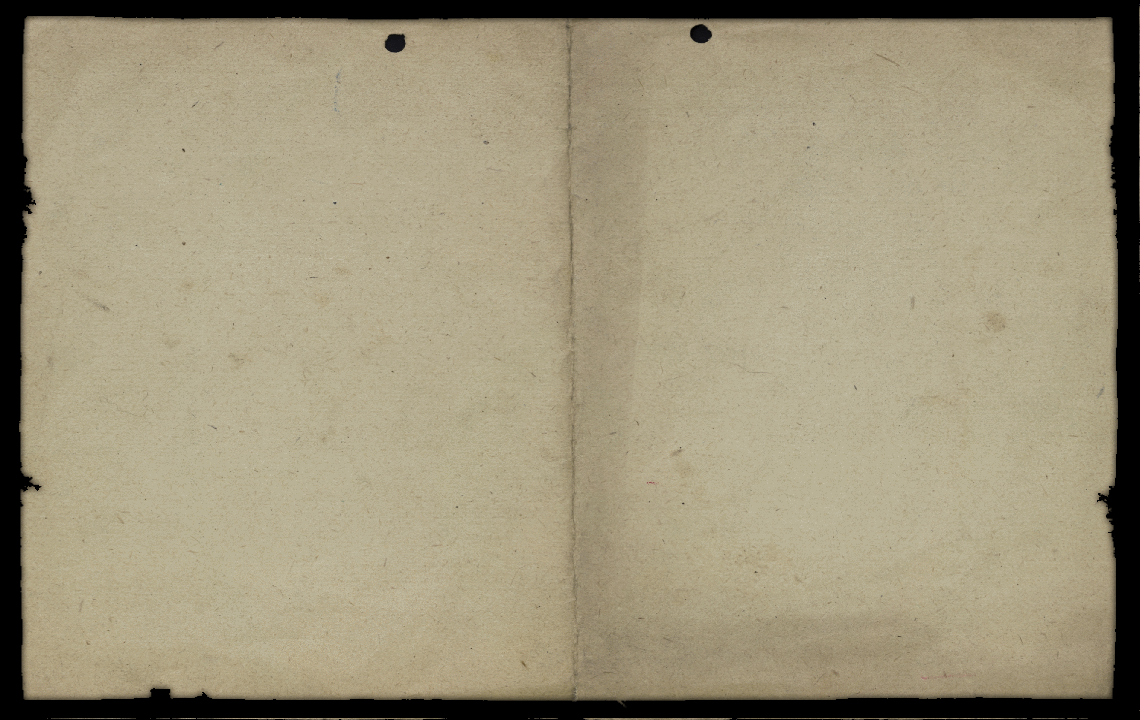
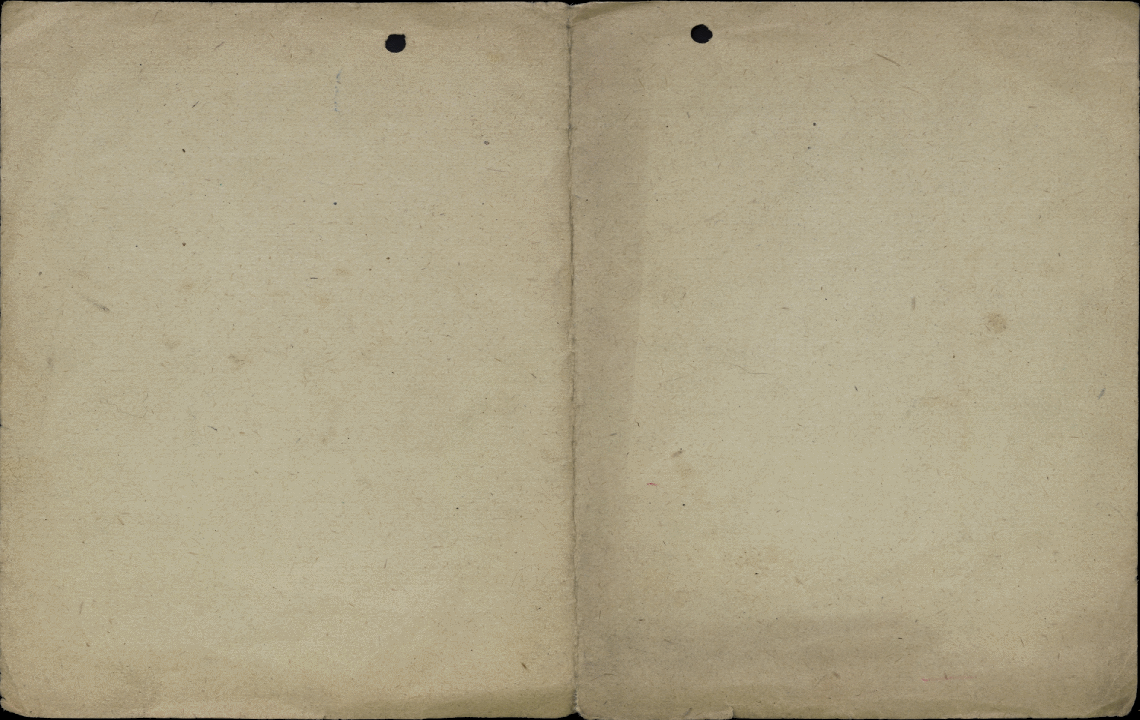
Main menu updated
Some gfx assets removed (were not used)

Changed region(s): [[0.0, 0.0, 1.0, 1.0]]

diff --git a/Riska/src/feup/lpoo/riska/scenes/MainMenuScene.java b/Riska/src/feup/lpoo/riska/scenes/MainMenuScene.java
@@ -5,6 +5,8 @@ import org.andengine.entity.scene.menu.MenuScene;
 import org.andengine.entity.scene.menu.item.IMenuItem;
 import org.andengine.entity.scene.menu.MenuScene.IOnMenuItemClickListener;
 import org.andengine.entity.sprite.Sprite;
+import org.andengine.opengl.texture.region.TiledTextureRegion;
+
 import feup.lpoo.riska.gameInterface.AnimatedButtonSpriteMenuItem;
 import feup.lpoo.riska.gameInterface.AnimatedTextButtonSpriteMenuItem;
 import feup.lpoo.riska.scenes.SceneManager.SceneType;
@@ -16,24 +18,29 @@ public class MainMenuScene extends BaseScene implements IOnMenuItemClickListener
 	// ==================================================
 	private MenuScene mainMenuChildScene;
 	private MenuScene startGameMenuChildScene;
-	private final int MENU_START = 0;
-	private final int MENU_OPTIONS = 1;
-	private final int MENU_NEW = 2;
-	private final int MENU_LOAD = 3;
 
+	final int MENU_START = 0;
+	final int MENU_NEW = 1;
+	final int MENU_LOAD = 2;
+	final int MENU_RETURN = 3;
+	final int MENU_OPTIONS = 4;
 	
 	@Override
 	public void createScene() {
 		createBackground();
 		createMenuChildScene();
 		createStartGameMenuChildScene();
+		createBorder();
 	}
 
 	@Override
 	public void onBackKeyPressed() {
-		if(this.getChildScene().equals(mainMenuChildScene)) {
+		if(this.getChildScene().equals(mainMenuChildScene))
+		{
 			System.exit(0);
-		} else if(this.getChildScene().equals(startGameMenuChildScene)) {
+		}
+		else if(this.getChildScene().equals(startGameMenuChildScene))
+		{
 			detachChildren();
 			setChildScene(mainMenuChildScene);
 		}
@@ -57,7 +64,7 @@ public class MainMenuScene extends BaseScene implements IOnMenuItemClickListener
 		SpriteBackground background = new SpriteBackground(new Sprite(camera.getWidth()/2, 
 				camera.getHeight()/2, 
 				resources.menuBackgroundRegion, 
-				activity.getVertexBufferObjectManager()));
+				vbom));
 		
 		setBackground(background);
 	}
@@ -66,17 +73,13 @@ public class MainMenuScene extends BaseScene implements IOnMenuItemClickListener
 		
 		mainMenuChildScene = new MenuScene(camera);
 		
-		final AnimatedTextButtonSpriteMenuItem startBtn = 
-				new AnimatedTextButtonSpriteMenuItem(
-						MENU_START, 
+		final AnimatedTextButtonSpriteMenuItem startBtn = new AnimatedTextButtonSpriteMenuItem(MENU_START, 
 						resources.textBtnRegion.getWidth(), 
 						resources.textBtnRegion.getHeight(),
 						resources.textBtnRegion, 
 						vbom, "START", resources.mainMenuFont);
 		
-		final AnimatedButtonSpriteMenuItem optionsBtn = 
-				new AnimatedButtonSpriteMenuItem(
-						MENU_OPTIONS, 
+		final AnimatedButtonSpriteMenuItem optionsBtn = new AnimatedButtonSpriteMenuItem(MENU_OPTIONS, 
 						(float)(0.3*resources.optionsBtnRegion.getWidth()),
 						(float)(0.3*resources.optionsBtnRegion.getHeight()), 
 						resources.optionsBtnRegion, 
@@ -89,60 +92,80 @@ public class MainMenuScene extends BaseScene implements IOnMenuItemClickListener
 		mainMenuChildScene.addMenuItem(optionsBtn);
 		mainMenuChildScene.setBackgroundEnabled(false);
 		mainMenuChildScene.setOnMenuItemClickListener(this);
-		
-		setChildScene(mainMenuChildScene);
-		
+
+		setChildScene(mainMenuChildScene);	
 	}
 	
 	private void createStartGameMenuChildScene() {
 		
 		startGameMenuChildScene = new MenuScene(camera);
 		
-		final AnimatedTextButtonSpriteMenuItem newGameBtn =
-				new AnimatedTextButtonSpriteMenuItem(
-						MENU_NEW,
+		final AnimatedTextButtonSpriteMenuItem newGameBtn = new AnimatedTextButtonSpriteMenuItem(MENU_NEW,
 						resources.textBtnRegion.getWidth(),
 						resources.textBtnRegion.getHeight(),
 						resources.textBtnRegion,
 						vbom, "NEW", resources.mainMenuFont);
 		
-		final AnimatedTextButtonSpriteMenuItem loadGameBtn =
-				new AnimatedTextButtonSpriteMenuItem(
-						MENU_LOAD,
+		final AnimatedTextButtonSpriteMenuItem loadGameBtn = new AnimatedTextButtonSpriteMenuItem(MENU_LOAD,
 						resources.textBtnRegion.getWidth(),
 						resources.textBtnRegion.getHeight(),
 						resources.textBtnRegion,
 						vbom, "LOAD", resources.mainMenuFont);
+
+		final AnimatedButtonSpriteMenuItem returnBtn = new AnimatedButtonSpriteMenuItem(MENU_RETURN,
+				resources.returnBtnRegion.getWidth(), 
+				resources.returnBtnRegion.getHeight(),
+				resources.returnBtnRegion,
+				vbom);
 		
 		newGameBtn.setPosition(camera.getCenterX(), camera.getCenterY() + newGameBtn.getHeight()/2);
 		loadGameBtn.setPosition(camera.getCenterX(), camera.getCenterY() - loadGameBtn.getHeight()/2);
 		
+		startGameMenuChildScene.addMenuItem(returnBtn);
 		startGameMenuChildScene.addMenuItem(newGameBtn);
 		startGameMenuChildScene.addMenuItem(loadGameBtn);
 		startGameMenuChildScene.setBackgroundEnabled(false);
 		startGameMenuChildScene.setOnMenuItemClickListener(this);
 		
 	}
+	
+	private void createBorder()
+	{
+		Sprite border = new Sprite(camera.getWidth()/2, camera.getHeight()/2, resources.menuBorderRegion, vbom);
+		border.setSize(camera.getWidth(), camera.getHeight());
+
+		mainMenuChildScene.attachChild(border);
+		
+		Sprite border2 = new Sprite(camera.getWidth()/2, camera.getHeight()/2, resources.menuBorderRegion, vbom);
+		border2.setSize(camera.getWidth(), camera.getHeight());
+		
+		startGameMenuChildScene.attachChild(border2);
+	}
 
 	@Override
-	public boolean onMenuItemClicked(MenuScene pMenuScene, IMenuItem pMenuItem,
-			float pMenuItemLocalX, float pMenuItemLocalY) {
-		switch(pMenuItem.getID()) {
+	public boolean onMenuItemClicked(MenuScene pMenuScene, IMenuItem pMenuItem, float pX, float pY)
+	{
+		switch(pMenuItem.getID())
+		{
 		case MENU_START:
 			setChildScene(startGameMenuChildScene);
 			break;
 		case MENU_OPTIONS:
-			SceneManager.getSharedInstance().createOptionsScene();
+			sceneManager.createOptionsScene();
 			break;
 		case MENU_NEW:
-			SceneManager.getSharedInstance().createGameScene();
+			sceneManager.createGameScene();
 			break;
 		case MENU_LOAD:
-			//SceneManager.getSharedInstance().loadGameScene(engine);
+			//sceneManager.loadGameScene(engine);
+			break;
+		case MENU_RETURN:
+			setChildScene(mainMenuChildScene);
 			break;
 		default:
 			break;
 		}
+		
 		return false;
 	}
 

diff --git a/Riska/src/feup/lpoo/riska/scenes/OptionsScene.java b/Riska/src/feup/lpoo/riska/scenes/OptionsScene.java
@@ -28,9 +28,9 @@ public class OptionsScene extends BaseScene implements IOnMenuItemClickListener 
 	public void createScene() {
 		createDisplay();
 		createOptionsMenuChildScene();
+		createBorder();
 		//SharedPreferencesManager.LoadBoolean("musicOn");
 	}
-
 	@Override
 	public void onBackKeyPressed() {
 		SceneManager.getSharedInstance().setScene(SceneType.MAIN_MENU);
@@ -53,26 +53,25 @@ public class OptionsScene extends BaseScene implements IOnMenuItemClickListener 
 		
 		optionsMenuChildScene = new MenuScene(camera);
 		
-		
 		TiledTextureRegion button = resources.returnBtnRegion;
 		
-		final AnimatedButtonSpriteMenuItem button_return = new AnimatedButtonSpriteMenuItem(MENU_RETURN, (float) 0.3*button.getWidth(), 
-				(float) 0.3*button.getHeight(), button, 
-				activity.getVertexBufferObjectManager());
+		final AnimatedButtonSpriteMenuItem button_return = new AnimatedButtonSpriteMenuItem(MENU_RETURN,
+				(float) 0.3*button.getWidth(), 
+				(float) 0.3*button.getHeight(),
+				button, vbom);
 		
 		button = resources.sliderBtnRegion;
 		
 		AnimatedButtonSpriteMenuItem button_slider_sfx = new AnimatedButtonSpriteMenuItem(MENU_SFX, 
 				(float) 0.3*button.getWidth(),
-				(float) 0.3*button.getHeight(), button, 
-				activity.getVertexBufferObjectManager());
+				(float) 0.3*button.getHeight(),
+				button, vbom);
 		
 		AnimatedButtonSpriteMenuItem button_slider_music = new AnimatedButtonSpriteMenuItem(MENU_MUSIC, 
 				(float) 0.3*button.getWidth(),
-				(float) 0.3*button.getHeight(), button, 
-				activity.getVertexBufferObjectManager());
-		
-		
+				(float) 0.3*button.getHeight(),
+				button, vbom);
+			
 		
 		final Text music_text = new Text(0, 0, resources.mainMenuFont, "MUSIC", activity.getVertexBufferObjectManager());
 		music_text.setPosition(MainActivity.CAMERA_WIDTH/2 - (float) 0.75*music_text.getWidth(), 
@@ -87,11 +86,13 @@ public class OptionsScene extends BaseScene implements IOnMenuItemClickListener 
 		
 		button_return.setPosition(button_return.getWidth()/2, button_return.getHeight()/2);
 		
-		button_slider_sfx.setPosition(MainActivity.CAMERA_WIDTH/2 + button_slider_sfx.getWidth()/2, 
+		button_slider_sfx.setPosition(
+				MainActivity.CAMERA_WIDTH/2 + button_slider_sfx.getWidth()/2, 
 				(float) 0.75*MainActivity.CAMERA_HEIGHT);
-		button_slider_music.setPosition(MainActivity.CAMERA_WIDTH/2 + button_slider_music.getWidth()/2, 
-				(float) 0.5*MainActivity.CAMERA_HEIGHT);
 		
+		button_slider_music.setPosition(
+				MainActivity.CAMERA_WIDTH/2 + button_slider_music.getWidth()/2, 
+				(float) 0.50*MainActivity.CAMERA_HEIGHT);
 		
 		
 		optionsMenuChildScene.addMenuItem(button_return);
@@ -111,8 +112,18 @@ public class OptionsScene extends BaseScene implements IOnMenuItemClickListener 
 	private void createDisplay() {
 		SpriteBackground background = new SpriteBackground(new Sprite(MainActivity.CAMERA_WIDTH/2, MainActivity.CAMERA_HEIGHT/2, 
 				resources.menuBackgroundRegion, activity.getVertexBufferObjectManager()));
+		
 		setBackground(background);
 	}
+	
+
+	private void createBorder() {
+		Sprite border = new Sprite(camera.getWidth()/2, camera.getHeight()/2, resources.menuBorderRegion, vbom);
+		border.setSize(camera.getWidth(), camera.getHeight());
+
+		optionsMenuChildScene.attachChild(border);
+	}
+
 
 	@Override
 	public boolean onMenuItemClicked(MenuScene pMenuScene, IMenuItem pMenuItem,

diff --git a/Riska/src/feup/lpoo/riska/resources/ResourceCache.java b/Riska/src/feup/lpoo/riska/resources/ResourceCache.java
@@ -54,6 +54,9 @@ public class ResourceCache {
 	private BitmapTextureAtlas menuBackgroundTextureAtlas;
 	public ITextureRegion menuBackgroundRegion;
 	
+	private BitmapTextureAtlas menuBorderTextureAtlas;
+	public ITextureRegion menuBorderRegion;
+	
 	private BuildableBitmapTextureAtlas mainMenuTextureAtlas;
 	public TiledTextureRegion textBtnRegion;
 	public TiledTextureRegion optionsBtnRegion;
@@ -69,7 +72,6 @@ public class ResourceCache {
 	public ITiledTextureRegion autoDeployBtnRegion;
 	public ITiledTextureRegion infoTabRegion;
 	public ITextureRegion windowRegion;
-//	public ITiledTextureRegion resultRegion;
 	public ITiledTextureRegion seaRegion;
 	public ITextureRegion mapRegion;
 	private BuildableBitmapTextureAtlas gameTextureAtlas;
@@ -142,6 +144,13 @@ public class ResourceCache {
 				activity, "background.png", 0, 0);
 		
 		menuBackgroundTextureAtlas.load();
+		
+		menuBorderTextureAtlas = new BitmapTextureAtlas(activity.getTextureManager(), 
+				bgTextureWidth, bgTextureHeight, TextureOptions.DEFAULT);
+		menuBorderRegion = BitmapTextureAtlasTextureRegionFactory.createFromAsset(menuBorderTextureAtlas, 
+				activity, "border.png", 0, 0);
+		
+		menuBorderTextureAtlas.load();
 		
 		int mainTextureWidth = 1024, mainTextureHeight = 2048;
 		
@@ -241,10 +250,7 @@ public class ResourceCache {
 				"info_tab.png", 1, 2);
 		
 		windowRegion = BitmapTextureAtlasTextureRegionFactory.createFromAsset(gameTextureAtlas, activity, "window.png");
-		
-//		resultRegion = BitmapTextureAtlasTextureRegionFactory.createTiledFromAsset(gameTextureAtlas, activity, 
-//				"result.png", 2, 1);
-		
+
 		
 		try {		
 			gameTextureAtlas.build(

diff --git a/Riska/src/feup/lpoo/riska/scenes/BaseScene.java b/Riska/src/feup/lpoo/riska/scenes/BaseScene.java
@@ -19,12 +19,14 @@ public abstract class BaseScene extends Scene {
 	protected ResourceCache resources;
 	protected VertexBufferObjectManager vbom;
 	protected SmoothCamera camera;
+	protected SceneManager sceneManager;
 
 	// ==================================================
 	// CONSTRUCTOR
 	// ==================================================
 	public BaseScene() {
 		this.resources = ResourceCache.getSharedInstance();
+		this.sceneManager = SceneManager.getSharedInstance();
 		this.engine = resources.engine;
 		this.activity = resources.activity;
 		this.vbom = resources.vbom;
